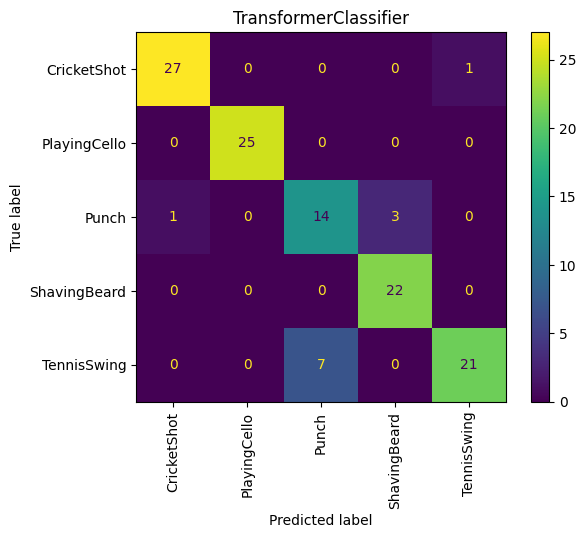
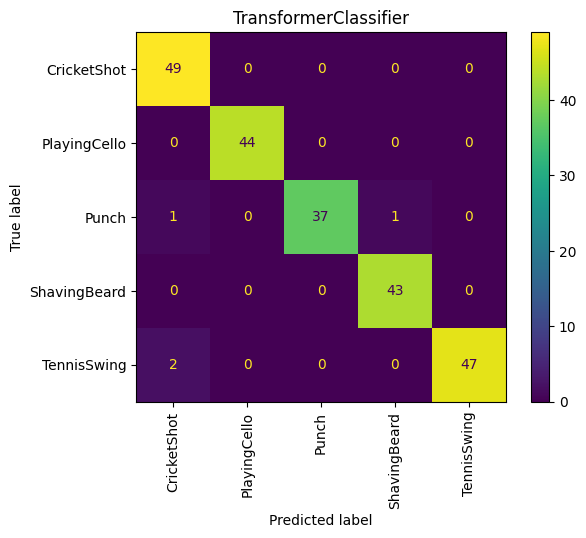
Making validation from train instead of test.

diff --git a/lab4/main.py b/lab4/main.py
@@ -2,6 +2,7 @@ from pathlib import Path
 import re
 import json
 
+import random
 import numpy as np
 import matplotlib.pyplot as plt
 
@@ -156,29 +157,55 @@ def plot_transformed(video_path, nframes=10):
         axs[i, 1].set_axis_off()
 
 
-def test_val_split(dataset_test_original, n_groups_test):
-    """Splits test UCF101 dataset into test and validation datasets.
+def train_val_split(dataset_train_original, n_groups_val, seed=None):
+    """Splits train UCF101 dataset into train and validation datasets.
     
-    Every class in the test UCF101 directory has 7 video groups,
-    and every video group has 7 videos,
-    which are cuts of a single original video.
-    The first `n_groups_test` video groups of each class will comprise our test set,
-    and the rest `7 - n_groups` video groups will comprise our validation set.
+    Every class in the train UCF101 directory has 18 video groups,
+    and every video group has roughly the same amount of videos, which are cuts of a single original video.
+    A random selection of `n_groups_val` video groups of each class will comprise our validation set,
+    and the remaining `18 - n_groups_val` video groups will comprise our validation set.
     """
-    p = re.compile(r'v_[a-zA-Z]*_g(\d+)_')
-    test_indices, val_indices = [], []
-    for i, s in enumerate(dataset_test_original.filenames):
-        video_group_str = p.match(s).group(1)
-        video_group = int(video_group_str)
-        if video_group <= n_groups_test:
-            test_indices.append(i)
-        else:
-            val_indices.append(i)
-
-    dataset_test = Subset(dataset_test_original, test_indices)
-    dataset_val = Subset(dataset_test_original, val_indices)
+    # >>> import pandas as pd
+    # >>> video_names = pd.read_csv('data/train.csv')['video_name']
+    # >>> pattern = r'v_(?P<label>[a-zA-Z]*)_g(?P<group>\d+)_c(?P<cut>\d+)'
+    # >>> df = video_names.str.extract(pattern)
+    # >>> df = df.astype({'group': int, 'cut': int})
+    # >>> df = df.sort_values(by=['label', 'group', 'cut'])
+    # >>> df.groupby(['label', 'group'])['cut'].count().value_counts()
+    # 7    64
+    # 6    19
+    # 5     4
+    # 4     3
+    # Name: cut, dtype: int64
+    # >>> df.groupby('label')['group'].agg(['min', 'max', 'nunique', 'count'])
+    #               min  max  nunique  count
+    # label                                 
+    # CricketShot     8   25       18    118
+    # PlayingCello    8   25       18    120
+    # Punch           8   25       18    121
+    # ShavingBeard    8   25       18    118
+    # TennisSwing     8   25       18    117
     
-    return dataset_test, dataset_val
+    if seed is not None:
+        random.seed(seed)
+    val_video_groups = set(random.sample(range(8, 26), n_groups_val))
+    print(f'Making validation set from video groups {sorted(val_video_groups)}')
+    p = re.compile(r'v_[a-zA-Z]*_g(\d+)_')
+    train_indices, val_indices = [], []
+    
+    for i, s in enumerate(dataset_train_original.filenames):
+        video_group = int(p.match(s).group(1))
+        if video_group in val_video_groups:
+            val_indices.append(i)
+        else:
+            train_indices.append(i)
+
+    dataset_train = Subset(dataset_train_original, train_indices)
+    dataset_val = Subset(dataset_train_original, val_indices)
+    
+    dataset_train.class_names = dataset_val.class_names = dataset_train_original.class_names
+    
+    return dataset_train, dataset_val
 
 
 def rnn_collate_fn(batch):
@@ -458,7 +485,7 @@ def train_evaluate_transformer(
         loader_test=loader_test_transformer, class_names=dataset_train.class_names, output_dir=output_dir,
     )
     
-
+    
 def main():
     pl.utilities.seed.seed_everything(42)
     data_root_dir = 'data'
@@ -466,20 +493,21 @@ def main():
     cache_all(data_root_dir)
     transform = None  # Hack to save some memory. Requires cache_all(root_dir),
 
-    dataset_train = Ucf101(
+    dataset_train_original = Ucf101(
         root_dir=data_root_dir, training=True, transform=transform,
         cache_fetched=True, cache_exist_ok=True,
     )  # 594 samples
-    dataset_test_original = Ucf101(
+    dataset_train, dataset_val = train_val_split(dataset_train_original, 3)  # ~ (15/18, 3/18) * 594 = (495, 99) samples
+    dataset_test = Ucf101(
         root_dir=data_root_dir, training=False, transform=transform,
         cache_fetched=True, cache_exist_ok=True,
     )  # 224 samples
-    dataset_test, dataset_val = test_val_split(dataset_test_original, 4)  # 121, 103 samples
     # max(x.shape[0] for x, _ in itertools.chain(dataset_train, dataset_test_original)) == 528
+    print(f'Train samples: {len(dataset_train)}\nValidation samples {len(dataset_val)}\nTest samples: {len(dataset_test)}\n')
 
     train_evaluate_rnn(dataset_train, dataset_val, dataset_test)
     train_evaluate_transformer(dataset_train, dataset_val, dataset_test)
-    
+
     
 if __name__ == '__main__':
     main()
